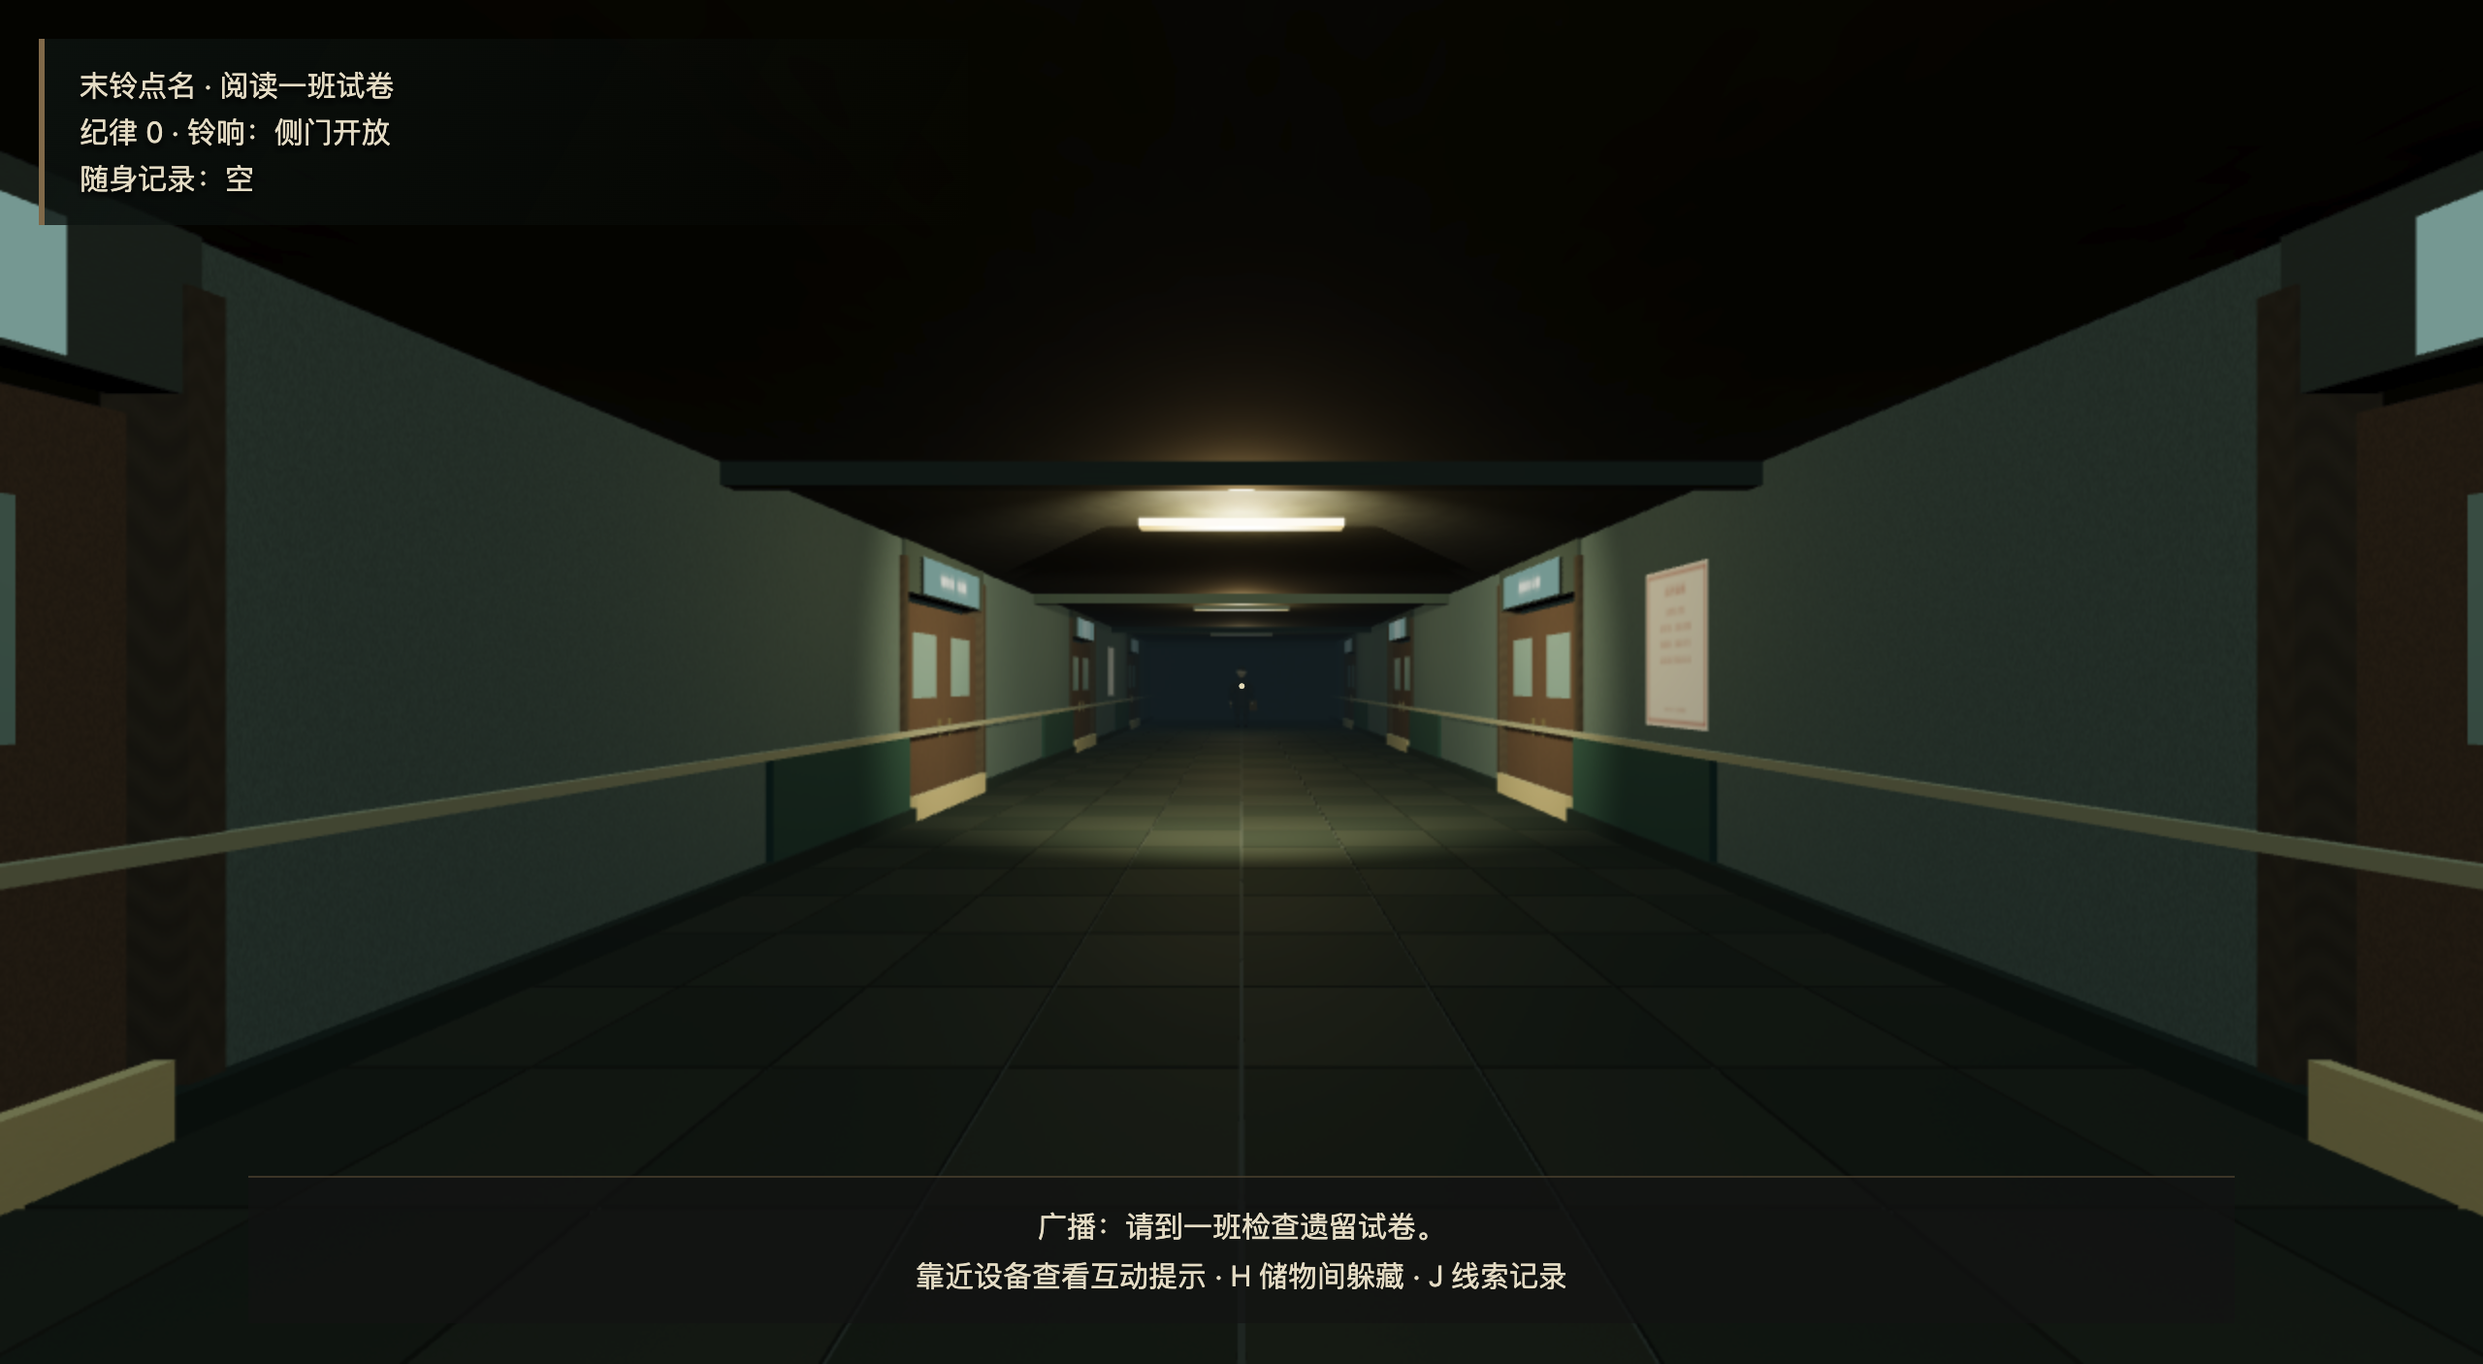
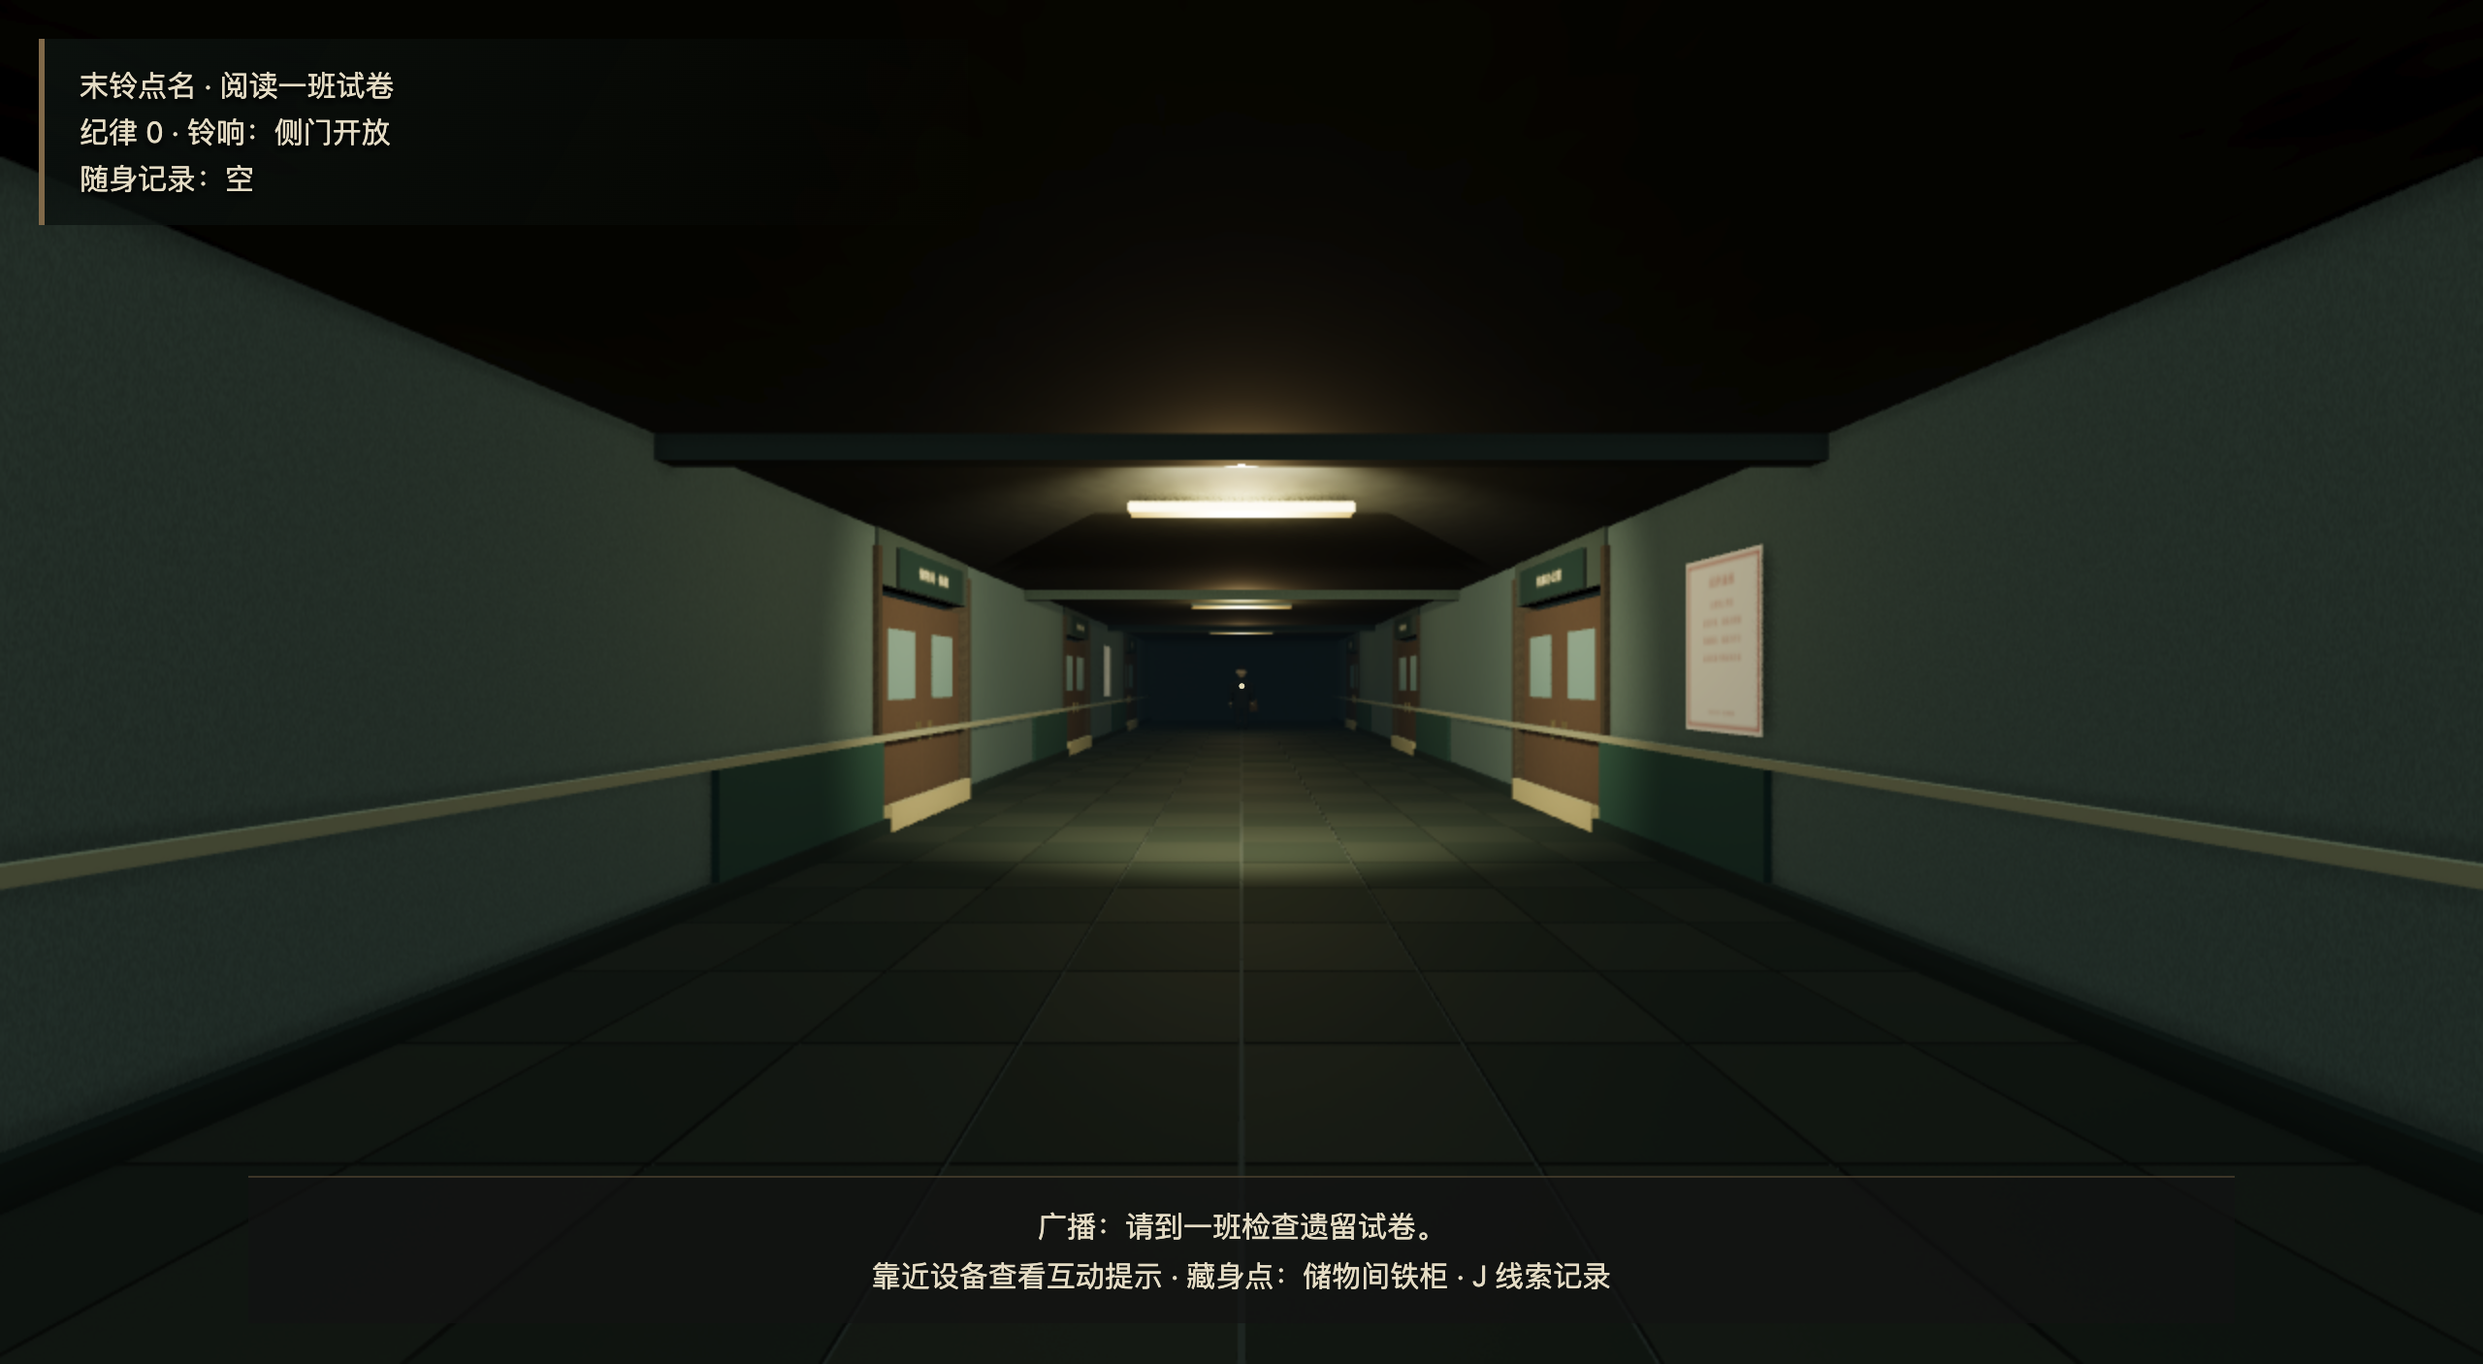
Document verified 0.4.0 downloads and packaged offline checks

diff --git a/FINAL_REPORT.md b/FINAL_REPORT.md
@@ -1,47 +1,48 @@
-# 末铃点名 · 0.3.0开发预览交付报告
+# 末铃点名 · 0.4.0开发预览交付报告
 
-已有可独立离线运行、能够通关的桌面游戏，并已公开发布0.3.0预览。**最终目标仍未完成**：用户要求的高级商业游戏音画品质尚未达到验收，20—30分钟是设计目标，尚无独立首次玩家时长测量。不能把熟知答案的自动路线当成首次游玩体验。
+已有可独立离线运行、能够通关的桌面游戏，0.4.0已公开发布。**完整目标仍未完成**：高级商业游戏音画品质未验收，20—30分钟是设计目标，尚无独立首次玩家时长测量。熟知答案的自动路线不能代表首次体验。
 
-## 游戏内容
-虚构昭川中学的有限教学楼与出口；第一人称行走、奔跑、潜行、互动、躲藏、开关门；值班人巡逻、遮挡感知、听觉、追逐、搜索及目击藏入搜查。铃声影响安全行动与出口，纪律值影响追捕。
+## 游戏与本次变化
+虚构昭川中学包含两间教室、走廊、办公室、广播室、储物间、纪律室、楼梯口和出口。第一人称行走、奔跑、潜行、开门、互动、记录与提示；值班人巡逻、遮挡感知、听觉、追逐、搜索和目击藏入搜查。铃声影响安全行动与出口，纪律值影响追捕。
 
-一班试卷排序与二班登记组成档案密码，办公室与纪律室组合广播频率，广播指引配电，再持通行证趁铃声离开。收集线索能回看并有三级提示。包含胜败、检查点续玩、菜单、暂停、存档校验/迁移、音量/灵敏度/视野/画面精细度/全屏。
+试卷与二班登记组成档案密码，办公室与纪律室组合广播频率，广播指引配电，再持通行证趁铃声离开。包含胜败、重新开始/检查点续玩、中文菜单、暂停、存档校验、音量/灵敏度/视野/画面精细度/全屏。
 
-程序化原创校园及多部件设备、分节角色、PBR材质与静态实例化；原创合成音效和配乐，值班人脚步带方向、距离及隔墙滤波。中文离线语音依赖本机可用声音，提示音与文字始终保留；未导出系统语音资产。
+0.4新增实体柜碰撞与柜内通风缝窥视、限幅观察及原位退出；AI仍能搜查被目击的藏身者。新增原创圆角课桌、开放书斗、钢架课椅与储物柜、粉笔黑板，移除重叠悬空标牌。可关闭的GTAO接触阴影及全部依赖离线打包。拨弦采用本项目阻尼弦波导合成；配乐、音效、材质与几何不含下载素材。中文语音仅调用可用的本机离线声音，必要信息同时显示文字并配提示音。
 
 ## 运行与下载
-- 项目目录：当前仓库 `midnight-rollcall`。
-- 本机可双击：`release/mac-arm64/末铃点名.app`，版本0.3.0；无开发者签名或公证。
-- [GitHub完整源码](https://github.com/Tomhao10225101490/midnight-rollcall)
-- [0.3.0开发预览下载页](https://github.com/Tomhao10225101490/midnight-rollcall/releases/tag/v0.3.0)
-- 已下载的公开Mac安装包：`release/downloads-0.3.0/`（DMG、应用ZIP及SHA256清单）。
-- [全部9包的真实字节数与SHA256](docs/ARTIFACTS-0.3.0.md)，Release也附带统一SHA256SUMS.txt。
-- 网页试玩未部署。Web静态ZIP可独立构建，作为次要交付，不替代桌面软件。
+- 项目：当前仓库 `midnight-rollcall`。
+- 本机可双击：`release/mac-arm64/末铃点名.app`，版本0.4.0。
+- [完整源码](https://github.com/Tomhao10225101490/midnight-rollcall)
+- [0.4.0实际下载页](https://github.com/Tomhao10225101490/midnight-rollcall/releases/tag/v0.4.0)
+- 本机已下载的实际Mac DMG/ZIP及校验清单：`release/downloads-0.4.0/`。
+- 下载ZIP解压的实际CI应用：`artifacts/downloaded-0.4.0/末铃点名.app`。
+- [9个包的字节数与SHA256](docs/ARTIFACTS-0.4.0.md)，Release附带统一SHA256SUMS.txt。
+- 网页试玩未部署。独立Web ZIP为次要交付，桌面玩家无需浏览器、Node或网络。
 
 源码运行：`npm ci`、`node node_modules/electron/install.js`、`npm run desktop`。
-验证：`npm run typecheck`、`npm test`、`npm run test:desktop`、`npm run test:settings`、`npm run test:hints`、`npm run test:audio`、`npm run test:regression`、`npm run test:traverse`。
-构建：`npm run dist`；Web ZIP：`npm run dist:web`（构建工具需要Python 3，最终桌面玩家不需要）。
+验证：`npm run typecheck`、`npm test`、`npm run test:desktop`、`npm run test:traverse`、`npm run test:hiding`、`npm run test:rendering`、`npm run test:audio`、`npm run test:settings`、`npm run test:regression`。额外断网测试：`node scripts/offline-electron.mjs`。
+构建：`npm run dist`；静态包：`npm run dist:web`（构建需要Python 3，桌面玩家不需要）。
 
 ## 验证矩阵
-| 平台 | 实际0.3.0产物 | 已验证范围 |
+| 平台 | 0.4.0实际产物 | 已验证范围 |
 |---|---|---|
-| macOS Apple Silicon | DMG、应用ZIP；本机.app | 本机修复版.app完整键盘通关，3次被捕与正常续玩；设置/笔记操作验证；CI包内部检查；公开下载ZIP应用启动、输入/设置及DMG只读挂载验证 |
-| macOS Intel | DMG、应用ZIP | macOS runner构建通过、内容/哈希检查；未实机试玩 |
-| Windows x64 | 安装EXE、便携EXE | Windows runner构建通过，两个EXE内层资源/入口/版本检查；未实机试玩 |
-| Linux x64 | AppImage、tar.gz | Linux runner构建通过，两个包内资源/入口/版本检查；未实机试玩 |
-| Web | 静态ZIP | 构建与入口检查；0.3.0本机Chrome启动、菜单、游戏和暂停通过，未整局浏览器试玩 |
+| macOS Apple Silicon | DMG、应用ZIP；本机.app | 本机正式app完整键盘通关，3次被捕后正常续玩；柜内操作与断网重载通过。下载的CI ZIP应用启动、输入、设置、暂停与断网检查通过；DMG只读挂载、版本/可执行入口/Applications链接通过，已卸载 |
+| macOS Intel | DMG、应用ZIP | macOS runner构建、内部版本/入口/41模块及哈希检查；未实机试玩 |
+| Windows x64 | 安装EXE、便携EXE | Windows runner构建、两个EXE内层资源/入口/版本/41模块检查；未实机试玩 |
+| Linux x64 | AppImage、tar.gz | Linux runner构建、资源/入口/版本/41模块检查；未实机试玩 |
+| Web | 静态ZIP | 构建与41模块检查；本机Chrome启动、菜单、游戏和暂停通过，未整局浏览器试玩 |
 
-发布源提交：`c69d775b365d7afb3f88e4c74972865019b044b3`。
-原生构建：[run43065138766](https://github.com/Tomhao10225101490/midnight-rollcall/actions/runs/43065138766)，全部5个job成功。
-检查与转存：[run43066389031](https://github.com/Tomhao10225101490/midnight-rollcall/actions/runs/43066389031)，9个包逐个检查app.asar或Web入口，再上传到草稿。公开前远端11项资产（9包+2清单）的大小和SHA256全部匹配，源提交一致。
+发布源：`5301ad6e46c01790915590df84dfd70f1cdf3f50`。
+原生构建：[43070739511](https://github.com/Tomhao10225101490/midnight-rollcall/actions/runs/43070739511)，全部5个job成功。
+包内检查与转存：[43071428344](https://github.com/Tomhao10225101490/midnight-rollcall/actions/runs/43071428344)，成功。公开前后均独立核对远端11项资产（9包+2清单）大小、SHA256及固定源提交一致。两份实际下载Mac包哈希匹配。
 
-15项逻辑测试与类型检查通过。最新新增回归证明合法外墙边缘目标可以被追到，以及铃声期间藏入不会被追溯误判。完整键盘通关使用只读QA观察坐标，未瞬移、无敌或注入物品。设置测试验证FOV及2倍采样真正应用、重载保存、暂停返回、笔记Esc关闭；中文截图已检查。
+18项逻辑测试和类型检查通过。完整键盘测试使用只读QA观察坐标，没有瞬移、无敌或注入物品。断网测试覆盖重载、资源、移动、音频上下文和暂停，HTTP请求为零；不是整局断网通关。音频信号、静音与波形测试不代表主观听感验收。
 
-静态实例化后，同一走廊绘制调用895→555；8次重开后319几何资源/42纹理稳定，短时120帧约60.26fps。不是所有设备或整局最低帧率保证。音频信号/暂停/静音验证不代表主观听感质量认证。诊断相机近景用于美术检查，不充当普通玩家截图。
+家具版本走廊短时120帧/2000ms约60FPS；8次重开资源稳定。此性能数据早于实体柜改动，不是发布版本整局或所有设备的最低帧率保证。README截图来自实际下载应用；诊断相机近景不充当普通玩家通关证据。
 
-## 未完成与真实限制
-- 高级商业游戏级美术、建模、音乐仍需完善与体验评价，目前为程序化独立游戏风格。
-- 20—30分钟首次游玩目标未实测，需要继续完善探索节奏并进行独立玩家体验测试。
-- Windows/Linux/Intel Mac缺少本次实体设备试玩，已明确限定为构建与包内容检查。
-- 未提供代码签名、公证证书；不会伪造。使用官方单应用确认方式，见[安装说明](docs/INSTALL.md)，不关闭全局安全保护。
-- 原创代码MIT；第三方软件保留自身许可，见THIRD_PARTY_NOTICES.md。没有购买资产、付费API、云主机、域名或加入遥测。
+## 未完成与限制
+- 高级商业游戏级建模、美术、音乐仍需提升与体验评价。
+- 20—30分钟首次游玩目标未实测，需要继续完善探索节奏及独立玩家体验测试。
+- Windows/Linux/Intel Mac未实机试玩；公开下载Mac应用仅上述范围检查，完整通关验证使用本机同源构建。
+- 无开发者代码签名或苹果公证证书，不能保证无系统提示。参见[安装说明](docs/INSTALL.md)，不关闭全局安全保护。
+- 原创代码MIT，第三方软件保留许可，见THIRD_PARTY_NOTICES.md。无付费API、购买素材、云主机、域名、账号系统、遥测或后端。

diff --git a/VERIFY.md b/VERIFY.md
@@ -153,3 +153,13 @@ session55315已成功结束：包含新音效与探索链的实际0.3.0-dev.1 `.
 - app.asar实际检查0.4.0-dev.1入口/41模块通过；递归校验器对缺失间接shader正确拒绝，对已下载0.3原包25模块通过。
 
 - 最新真实0.4打包app的hiding-electron检查PASS；32880已正常结束。当前没有活跃GUI测试。
+
+## 正式0.4.0发布前验证
+- 固定源5301ad6e46c01790915590df84dfd70f1cdf3f50，18项测试与typecheck通过。
+- 该版本本机打包app完整键盘通关通过，3次被捕/正常检查点续玩；柜内操作回归与禁用网络重载检查通过，HTTP请求为零。不是声称完整整局断网测试或主观听感验收。
+- Chrome WebGL启动、菜单、游戏、暂停通过；未整局浏览器试玩。
+- native CI43070739511最终success，mac-arm64/mac-x64/Windows/Linux/Web全部5个job成功。下一步逐包内部与哈希检查、上传草稿，尚未公开。
+
+- v0.4.0已公开（非草稿、prerelease），链接https://github.com/Tomhao10225101490/midnight-rollcall/releases/tag/v0.4.0 。发布后11资产/源SHA复核仍通过。
+- 实际下载Mac DMG/ZIP校验通过，ZIP应用启动与断网检查通过；DMG只读挂载0.4.0/入口/Applications链接通过，已正常卸载。所有下载/GUI/挂载会话已正常结束。
+- README/FINAL_REPORT/ARTIFACTS-0.4.0已更新，截图来自实际下载应用。整体目标保持未完成，高级音画与首次20—30分钟未验收。

diff --git a/docs/ARTIFACTS-0.4.0.md b/docs/ARTIFACTS-0.4.0.md
@@ -1,0 +1,15 @@
+# 末铃点名 0.4.0 发布产物
+
+构建源提交：5301ad6e46c01790915590df84dfd70f1cdf3f50。大小单位为字节；校验算法SHA256。
+
+| 文件 | 字节数 | SHA256 |
+|---|---:|---|
[9 lines of base64/hex data omitted]

diff --git a/docs/RELEASE_NOTES_0.4.0.md b/docs/RELEASE_NOTES_0.4.0.md
@@ -9,7 +9,7 @@
 - 原创阻尼弦波导音色，继续使用自适应配乐与本机合成音效。
 - 安装包检查递归验证全部运行模块，避免遗漏间接渲染依赖。
 
-验证范围：Mac Apple Silicon 开发源码已通过完整键盘路线（3次捕获后正常检查点续玩，无瞬移或物品注入）。0.4开发打包应用已验证启动、输入、设置、音频图和柜内操作。最终0.4.0包的具体检查以发布验收报告为准。Windows/Linux/macOS Intel仅对应系统CI构建及包内容检查，不代表实机试玩。
+验证范围：Mac Apple Silicon 开发源码已通过完整键盘路线（3次捕获后正常检查点续玩，无瞬移或物品注入）。0.4开发打包应用已验证启动、输入、设置、音频图和柜内操作。正式0.4.0本机打包应用也已通过完整键盘路线（3次捕获后正常续玩）；公开下载包的检查以发布验收报告为准。Windows/Linux/macOS Intel仅对应系统CI构建及包内容检查，不代表实机试玩。
 
 18项逻辑测试包含导航、门、碰撞、敌人视听、躲藏搜查、存档、设置、谜题和声音波形。设计目标20—30分钟，不是已实测首次游玩时长。模型、美术和配乐仍在完善，未宣称高级商业游戏品质或完成主观听感验收。
 
